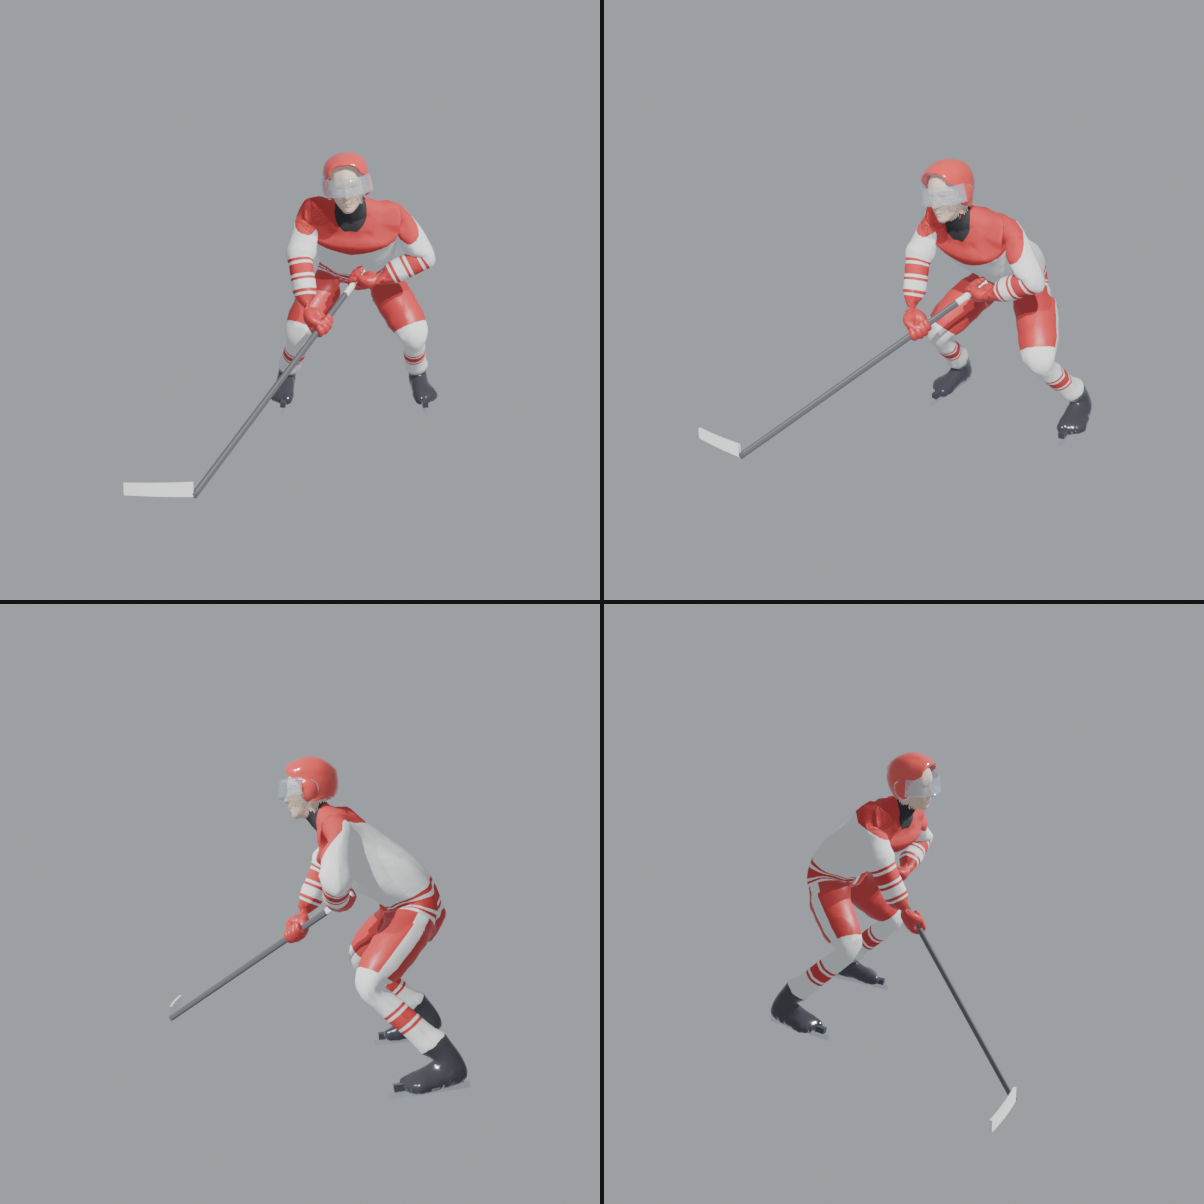
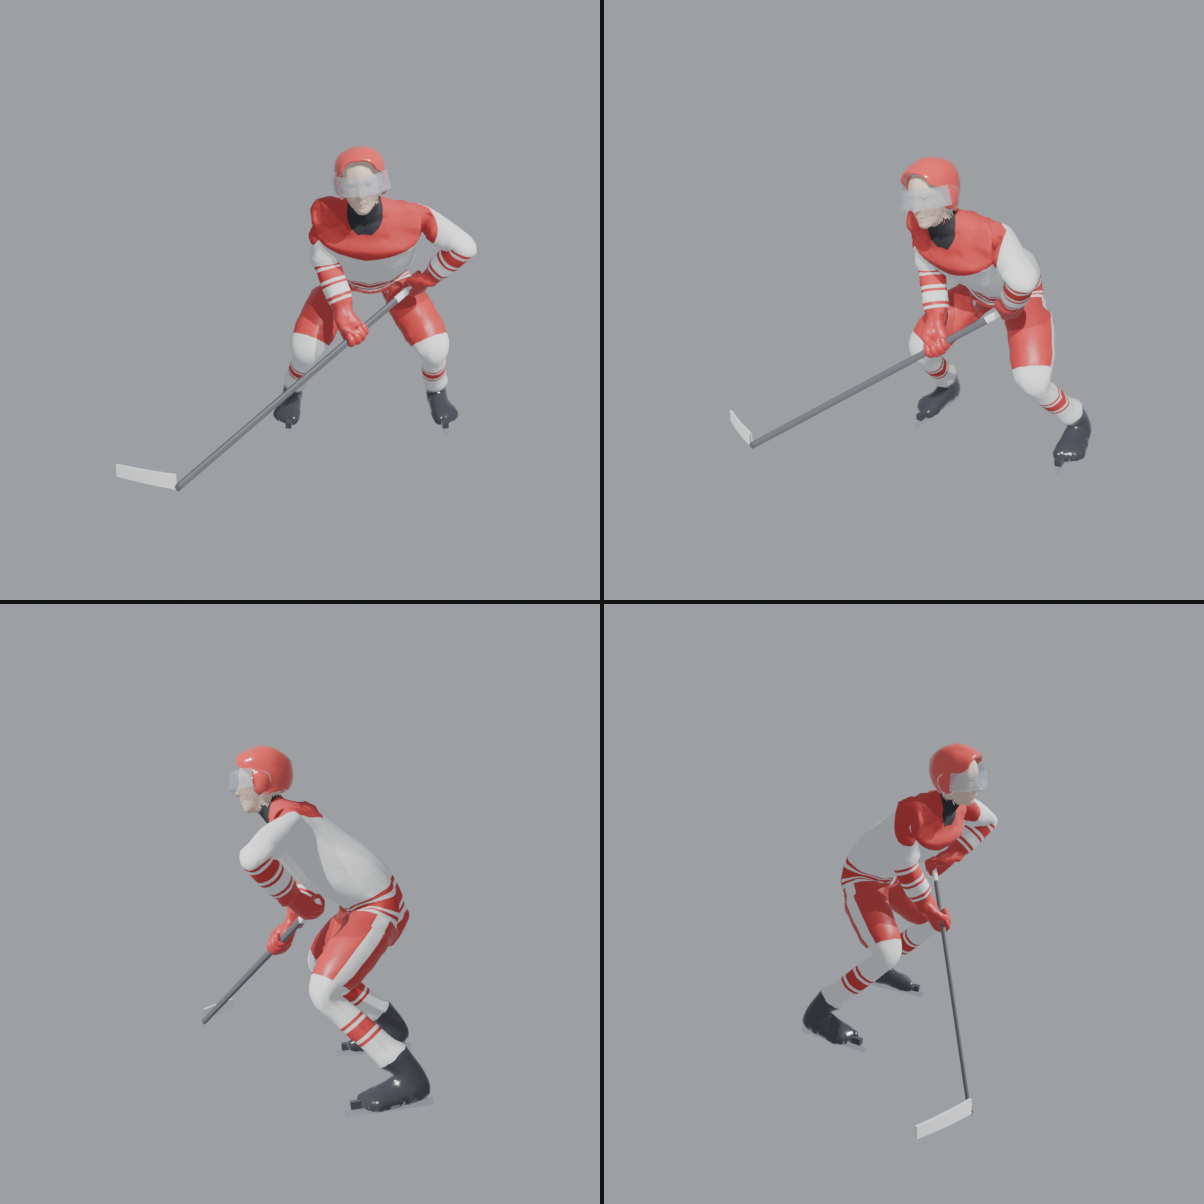
Skater: forearm twist bones so the wrists stop wringing
The hands were turned 108 and 151 degrees at the wrist joint with no forearm roll, which pinched the
glove cuff like a candy wrapper. Three twist bones per forearm now share the turn along its length,
and the grip pick weighs wrist bend and twist together (bends 19 and 7 degrees).

diff --git a/assets/src/skater/pose_ready.py b/assets/src/skater/pose_ready.py
@@ -133,7 +133,7 @@ cands.sort(key=lambda c: c[1], reverse=True)
 # ---- put each hand on the shaft ----
 def poles(side):
     S = W @ P['upperarm_' + side].head; sx = 1 if side == 'l' else -1
-    return [S + Vector((sx * ox, oy, oz)) for ox in (0.3, 0.5) for oy in (0.0, 0.25) for oz in (-0.3, 0.0)]
+    return [S + Vector((sx * ox, oy, oz)) for ox in (0.2, 0.4, 0.6) for oy in (-0.2, 0.1, 0.35) for oz in (-0.4, -0.1, 0.2)]
 iks = {}
 for side in 'lr':
     g = bpy.data.objects.new('grip_' + side, None); sc.collection.objects.link(g)
@@ -141,8 +141,20 @@ for side in 'lr':
     c = P['lowerarm_' + side].constraints.new('IK'); c.target = g; c.chain_count = 2
     c.pole_target = p; c.pole_angle = math.radians(-90); iks[side] = (g, p)
 
+def hand_twist(side, Rt):
+    """Twist of the hand about the forearm (degrees) if the hand had world rotation Rt."""
+    B = arm.data.bones; rest = (B['lowerarm_' + side].matrix_local.inverted() @ B['hand_' + side].matrix_local).to_3x3()
+    Rlow = (W @ P['lowerarm_' + side].matrix).to_3x3()
+    q = ((Rlow @ rest).inverted() @ Rt).to_quaternion(); tw = Quaternion((q.w, 0, q.y, 0)); tw.normalize()
+    a = math.degrees(2 * math.atan2(tw.y, tw.w))
+    return (a + 180) % 360 - 180
+def wrist_cost(side, Rt):
+    # a real wrist bends a little and turns over mostly through the forearm, so big twists are expensive
+    fore = (W @ P['lowerarm_' + side].matrix).to_3x3().col[1].normalized()
+    bend = math.degrees(fore.angle(Rt.col[1])); tw = abs(hand_twist(side, Rt))
+    return bend + 1.5 * max(0.0, tw - 90)   # the forearm twist bones carry the turn
 def place_hand(side, G):
-    """Hand so the hollow is at G and runs along the shaft; roll chosen for the straightest wrist."""
+    """Hand so the hollow is at G and runs along the shaft; roll chosen for the most natural wrist."""
     c_loc, a_loc = HOLLOW[side]; g, pole = iks[side]
     best = None
     for pp in poles(side):
@@ -151,19 +163,15 @@ def place_hand(side, G):
         for _ in range(5):
             fore = (W @ P['lowerarm_' + side].matrix).to_3x3().col[1].normalized()
             R0 = (R @ a_loc).rotation_difference(d).to_matrix() @ R
-            pick = None
-            for th in range(0, 360, 5):
-                Rt = Matrix.Rotation(math.radians(th), 3, d) @ R0
-                bend = math.degrees(fore.angle(Rt.col[1]))
-                if pick is None or bend < pick[0]: pick = (bend, Rt)
-            R = pick[1]; wrist = G - R @ c_loc
+            R = min((Matrix.Rotation(math.radians(th), 3, d) @ R0 for th in range(0, 360, 5)), key=lambda Rt: wrist_cost(side, Rt))
+            wrist = G - R @ c_loc
             g.location = wrist; vl.update()
             Mh = Matrix.Translation(wrist) @ R.to_4x4()
             P['hand_' + side].matrix = W.inverted() @ Mh; vl.update()
         fore = (W @ P['lowerarm_' + side].matrix).to_3x3().col[1].normalized()
         bend = math.degrees(fore.angle(hand_frame(side).to_3x3().col[1]))
         miss = ((W @ P['lowerarm_' + side].tail) - wrist).length
-        score = bend + miss * 2000
+        score = wrist_cost(side, hand_frame(side).to_3x3()) + miss * 2000
         if best is None or score < best[0]: best = (score, pp.copy(), bend, miss)
     pole.location = best[1]; vl.update()
     # settle once more with the chosen pole
@@ -171,7 +179,7 @@ def place_hand(side, G):
     for _ in range(5):
         fore = (W @ P['lowerarm_' + side].matrix).to_3x3().col[1].normalized()
         R0 = (R @ a_loc).rotation_difference(d).to_matrix() @ R
-        R = min((Matrix.Rotation(math.radians(th), 3, d) @ R0 for th in range(0, 360, 5)), key=lambda Rt: fore.angle(Rt.col[1]))
+        R = min((Matrix.Rotation(math.radians(th), 3, d) @ R0 for th in range(0, 360, 5)), key=lambda Rt: wrist_cost(side, Rt))
         wrist = G - R @ c_loc; g.location = wrist; vl.update()
         P['hand_' + side].matrix = W.inverted() @ (Matrix.Translation(wrist) @ R.to_4x4()); vl.update()
     return best
@@ -187,8 +195,9 @@ tried = []
 for cand in cands[:24]:
     s_grip, _, _, T, HEEL = cand; d = (HEEL - T).normalized()
     rl = place_hand('l', T); rr = place_hand('r', T + d * s_grip)
-    ok = rl[3] < 0.005 and rr[3] < 0.005 and wrist_bend('l') <= 35 and wrist_bend('r') <= 35 and elbow('r') <= 160
-    score = s_grip * 100 - max(0, wrist_bend('l') - 25) - max(0, wrist_bend('r') - 25) - (rl[3] + rr[3]) * 1000 - max(0, elbow('r') - 150)
+    tl = abs(hand_twist('l', hand_frame('l').to_3x3())); tr = abs(hand_twist('r', hand_frame('r').to_3x3()))
+    ok = rl[3] < 0.005 and rr[3] < 0.005 and wrist_bend('l') <= 35 and wrist_bend('r') <= 35 and elbow('r') <= 160 and tl <= 100 and tr <= 100
+    score = s_grip * 100 - max(0, wrist_bend('l') - 25) - max(0, wrist_bend('r') - 25) - (rl[3] + rr[3]) * 1000 - max(0, elbow('r') - 150) - max(0, tl - 90) - max(0, tr - 90)
     tried.append((score, cand))
     if ok: break
 else:
@@ -196,6 +205,13 @@ else:
     s_grip, _, _, T, HEEL = cand; d = (HEEL - T).normalized()
     place_hand('l', T); place_hand('r', T + d * s_grip)
 GL = T
+# spread each hand's twist along its forearm (twist bones from twist_bones.py)
+for side in 'lr':
+    tw = hand_twist(side, hand_frame(side).to_3x3())
+    for i, f in ((1, 1 / 3), (2, 2 / 3), (3, 1.0)):
+        pb = P.get(f'lowerarm_twist_0{i}_{side}')
+        if pb: pb.rotation_quaternion = Quaternion((0, 1, 0), math.radians(tw * f))
+vl.update()
 
 # ---- the stick: knob just past the top hand, through both hollows, heel on the ice ----
 KNOB = GL - d * 0.05; L = (HEEL - KNOB).length
@@ -247,7 +263,7 @@ def grip_check(side):
     dist = [((p - KNOB) - d * (p - KNOB).dot(d)).length for p in pts if abs((p - cw).dot(d)) < 0.05]
     return dict(hollow_off_shaft_cm=round(off * 100, 2), axis_vs_shaft_deg=round(ang, 1), finger_thick_cm=CURL_K[side][0], ring_r_cm=round(CURL_K[side][3] * 100, 2), finger_to_axis_min_cm=round(min(dist) * 100, 2),
                 finger_to_axis_mean_cm=round(sum(dist) / len(dist) * 100, 2),
-                wrist_bend=round(wrist_bend(side)), elbow=round(elbow(side)))
+                wrist_bend=round(wrist_bend(side)), wrist_twist=round(hand_twist(side, hand_frame(side).to_3x3())), elbow=round(elbow(side)))
 REPORT = dict(tried=len(tried), stick_len=round(L, 2), grip_gap_cm=round(s_grip * 100), top=tuple(round(x, 2) for x in T),
               heel=tuple(round(x, 2) for x in HEEL), left=grip_check('l'), right=grip_check('r'))
 print(REPORT)

diff --git a/assets/src/skater/twist_bones.py b/assets/src/skater/twist_bones.py
@@ -1,0 +1,51 @@
+# Forearm twist bones. A real forearm turns the hand over along its whole length (radius rolls over
+# ulna); the base rig has no twist bones, so any turn of the hand wrings the wrist like a candy wrapper.
+# This adds three twist bones per forearm (at 1/3, 2/3 and the wrist) and moves each forearm vertex's
+# 'lowerarm' weight onto them by how far down the forearm it sits. pose_ready.py then turns each twist
+# bone by that share of the hand's twist. Run after build_outfit.py (it rebuilds the mesh weights).
+import bpy
+from mathutils import Vector
+
+arm = bpy.data.objects['Armature']; out = bpy.data.objects['skater_outfit']
+TW = [(1, 1 / 3), (2, 2 / 3), (3, 1.0)]   # (index, share of the hand twist)
+
+def ensure_bones():
+    vl = bpy.context.view_layer; prev = vl.objects.active
+    for o in bpy.context.selected_objects: o.select_set(False)
+    vl.objects.active = arm; arm.select_set(True)
+    bpy.ops.object.mode_set(mode='EDIT'); eb = arm.data.edit_bones
+    for s in 'lr':
+        low = eb['lowerarm_' + s]; d = (low.tail - low.head)
+        for i, f in TW:
+            n = f'lowerarm_twist_0{i}_{s}'
+            b = eb.get(n) or eb.new(n)
+            pos = low.head + d * min(f, 0.98)
+            b.head = pos; b.tail = pos + d.normalized() * 0.05; b.roll = low.roll
+            b.parent = low; b.use_connect = False; b.use_deform = True
+    bpy.ops.object.mode_set(mode='OBJECT')
+    arm.select_set(False); vl.objects.active = prev
+
+def reweight():
+    B = arm.data.bones; gi = {g.name: g.index for g in out.vertex_groups}
+    for s in 'lr':
+        for i, f in TW:
+            n = f'lowerarm_twist_0{i}_{s}'
+            if n not in gi: gi[n] = out.vertex_groups.new(name=n).index
+        a = B['lowerarm_' + s].head_local; b = B['lowerarm_' + s].tail_local; L = (b - a).length; ax = (b - a) / L
+        stops = [('lowerarm_' + s, 0.0)] + [(f'lowerarm_twist_0{i}_{s}', f) for i, f in TW]
+        low = gi['lowerarm_' + s]
+        for v in out.data.vertices:
+            w = next((g.weight for g in v.groups if g.group == low), 0.0)
+            if w <= 0: continue
+            t = max(0.0, min(1.0, (v.co - a).dot(ax) / L))
+            for n, _ in stops: out.vertex_groups[n].remove([v.index])
+            for k in range(len(stops) - 1):     # share w between the two stops around t
+                (n0, f0), (n1, f1) = stops[k], stops[k + 1]
+                if f0 <= t <= f1:
+                    u = (t - f0) / (f1 - f0)
+                    out.vertex_groups[n0].add([v.index], w * (1 - u), 'REPLACE')
+                    if u > 0: out.vertex_groups[n1].add([v.index], w * u, 'REPLACE')
+                    break
+
+ensure_bones(); reweight()
+print('twist bones ready')

diff --git a/assets/src/skater/build_outfit.py b/assets/src/skater/build_outfit.py
@@ -152,3 +152,4 @@ print(result)
 # colour pattern (yoke, stripes, side stripes) is drawn by the uniform material, not by face colours
 HERE = '/Users/brianyao/claude-web-game/assets/src/skater/'
 exec(open(HERE + 'uniform_pattern.py').read())
+exec(open(HERE + 'twist_bones.py').read())
